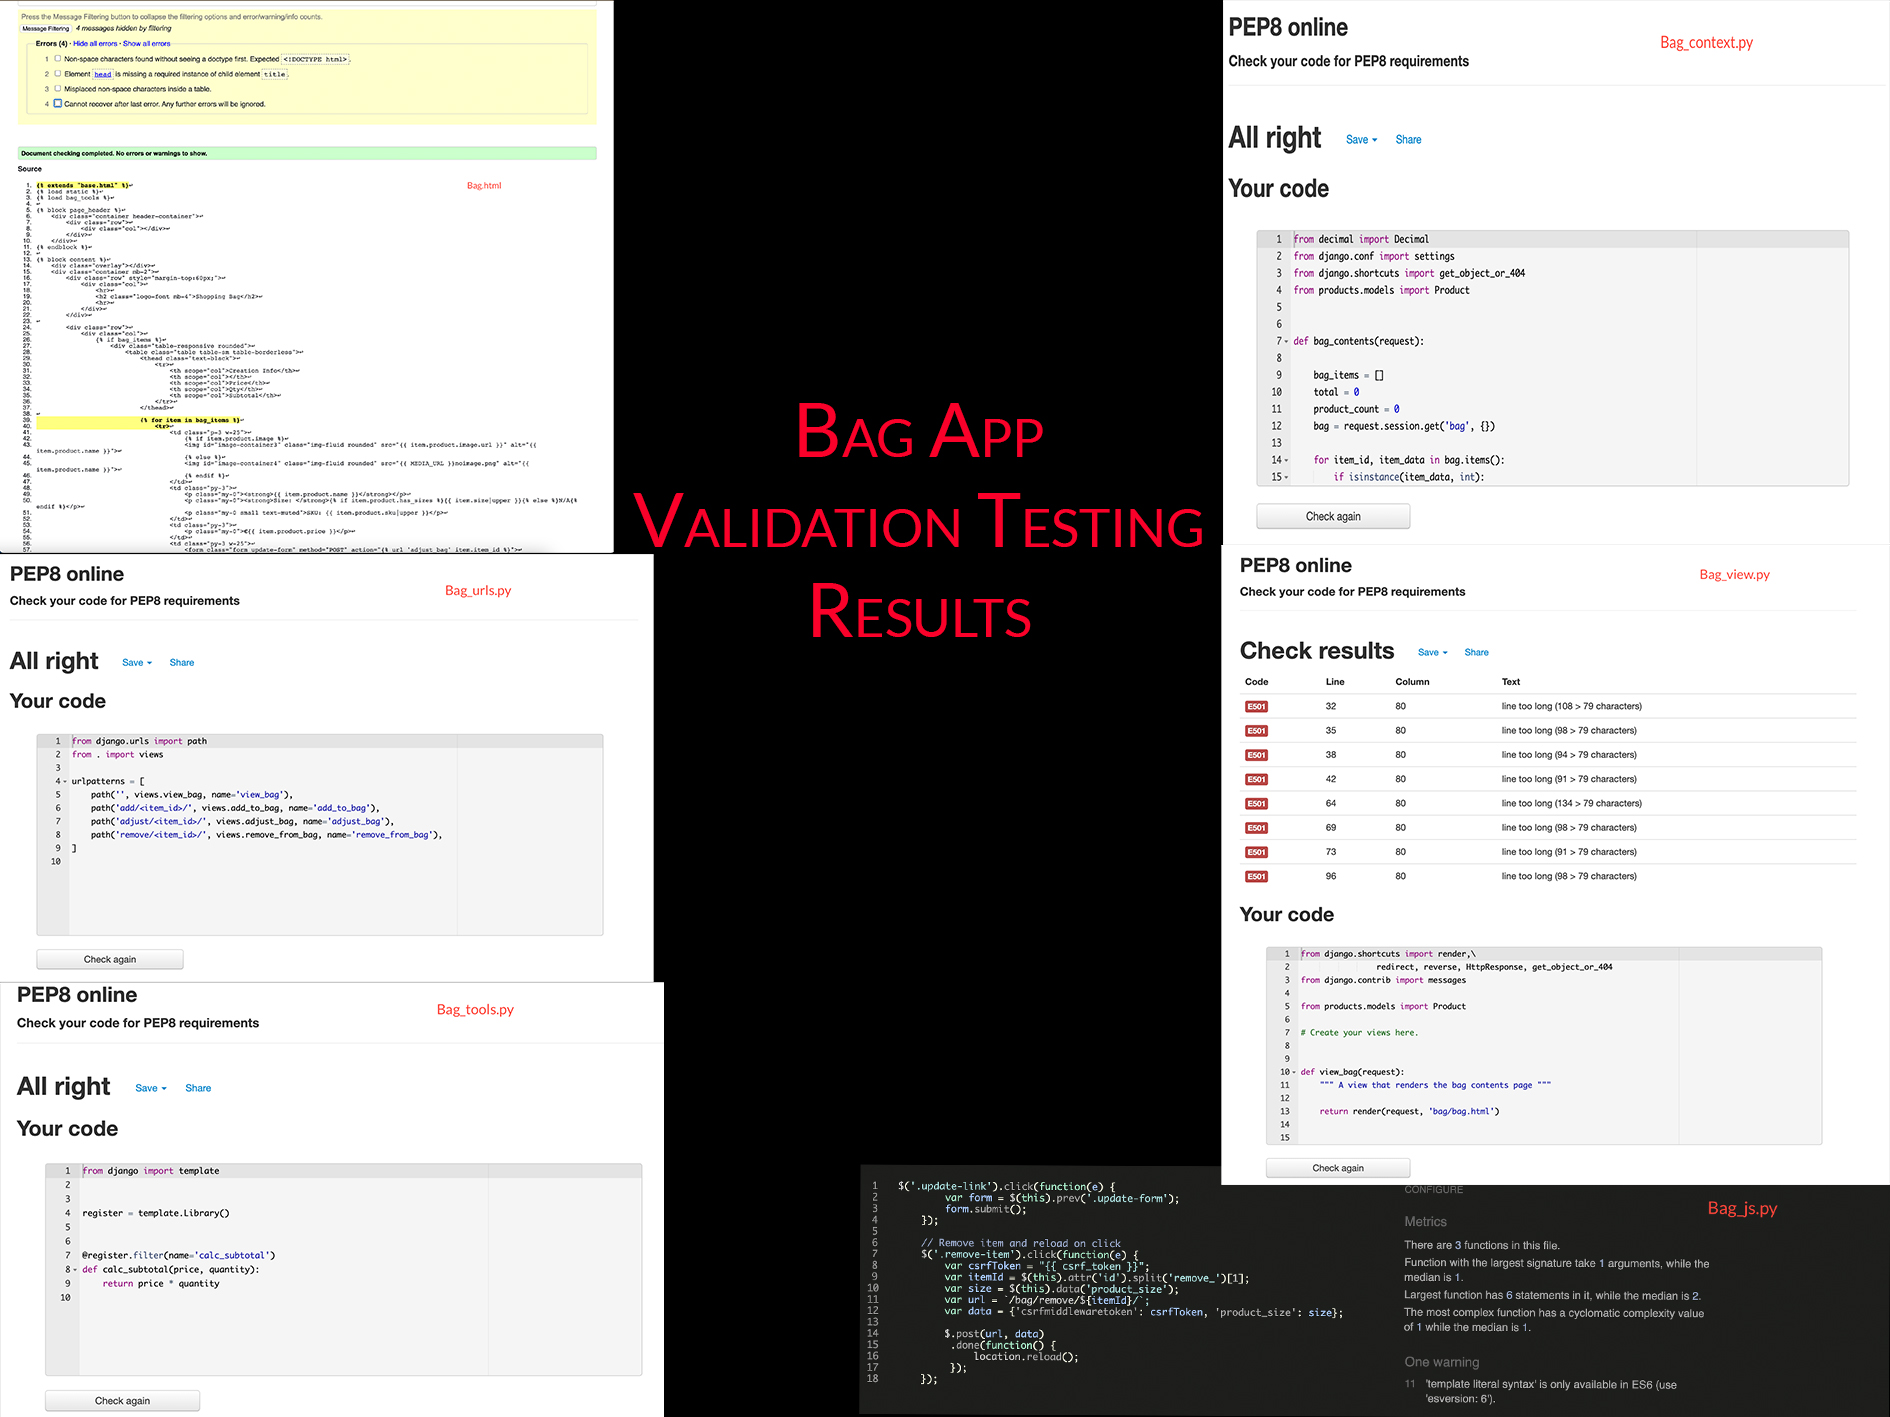
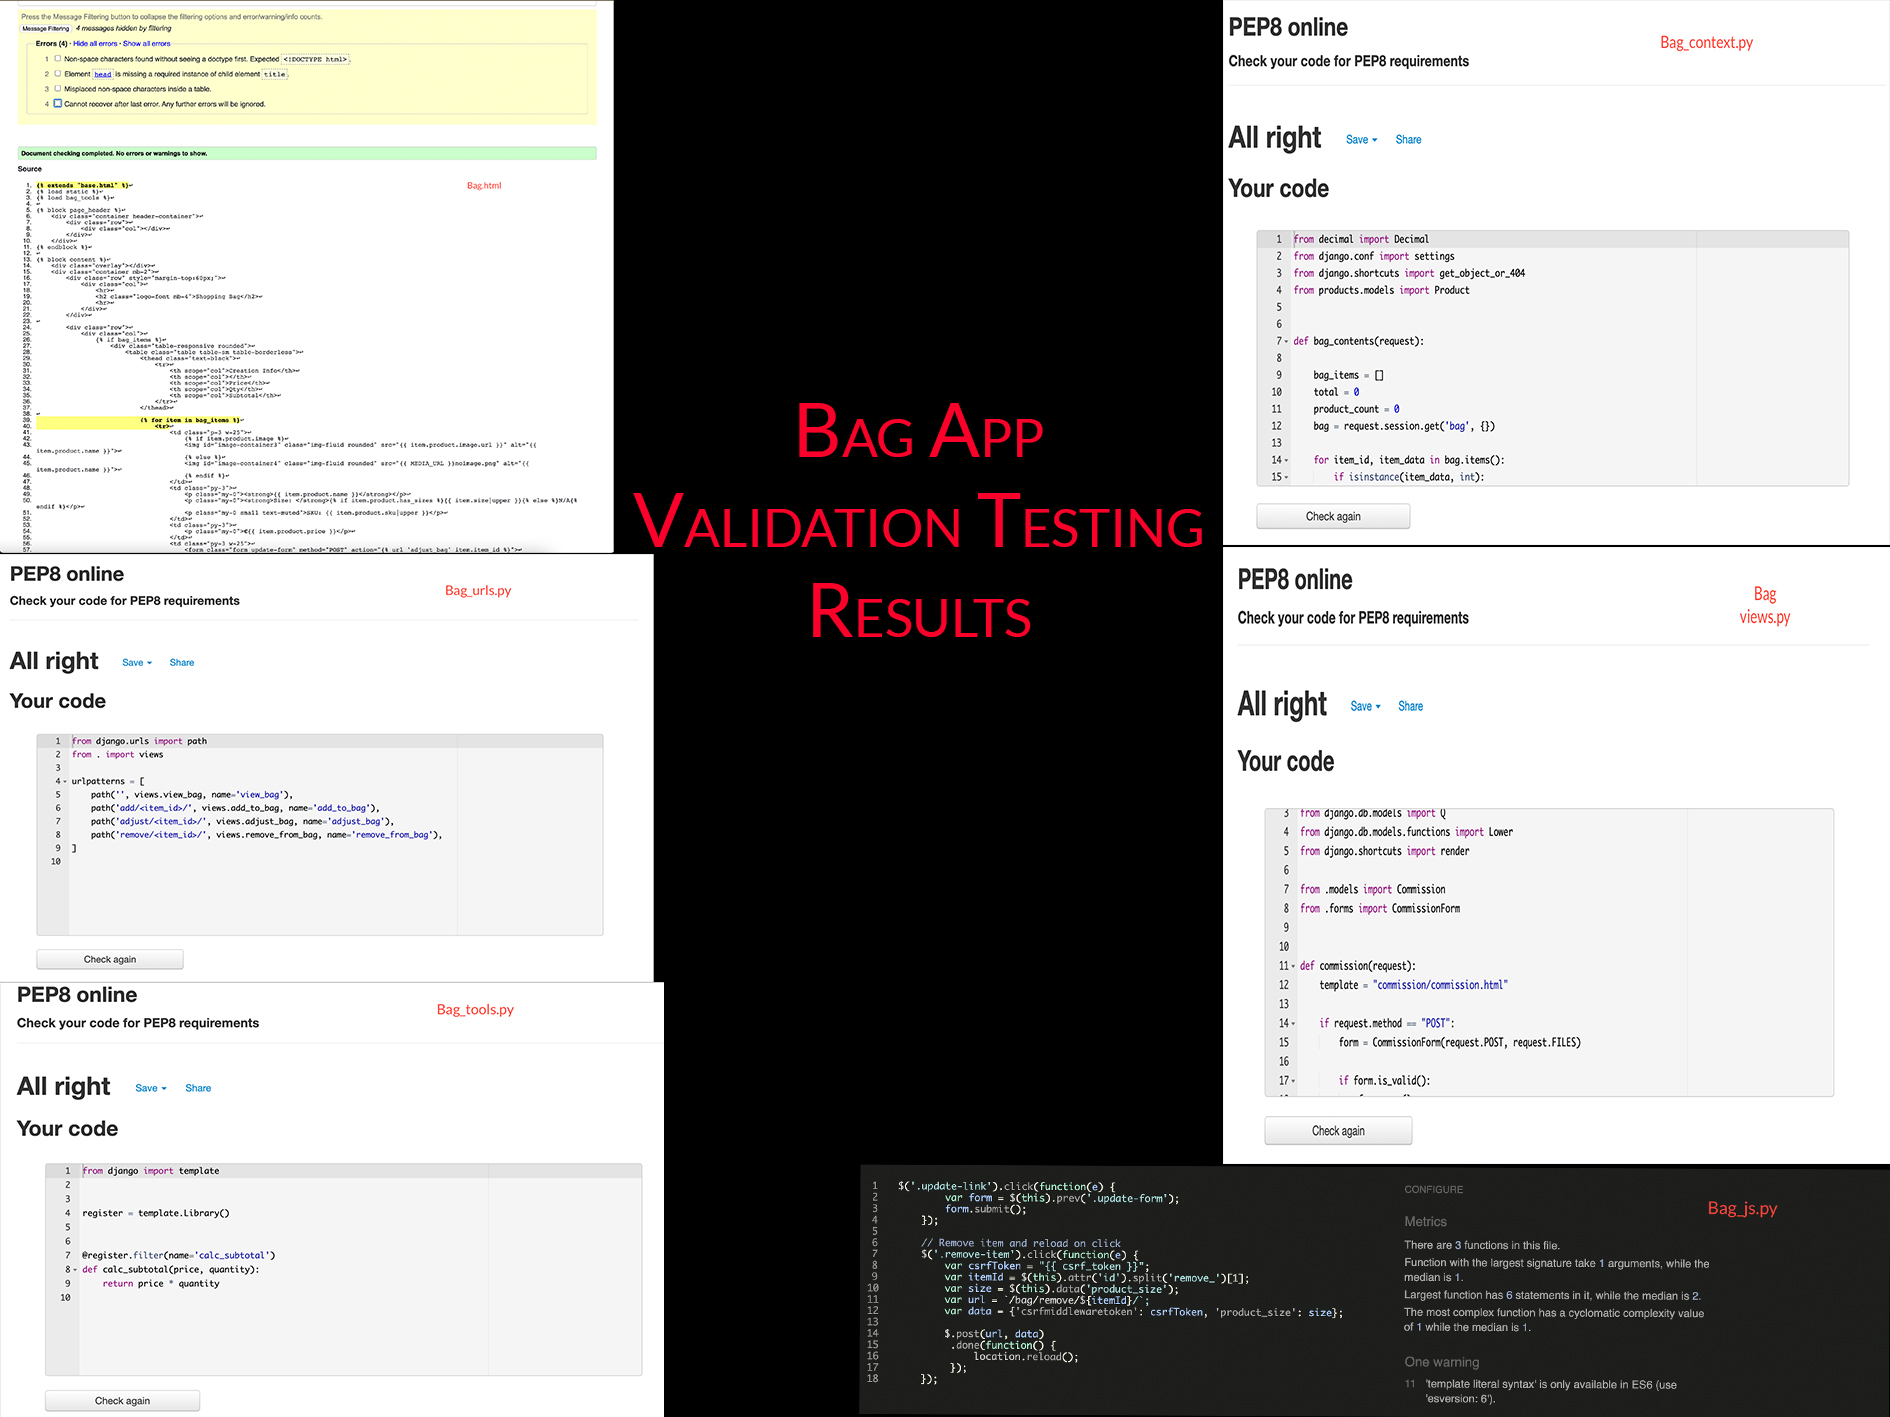
validation testing

Changed region(s): [[0.6243, 0.3726, 1.0, 0.8384], [0.9053, 0.4037, 0.9365, 0.4347]]

diff --git a/commission/templates/commission/custom_widget_templates/custom_clearable_file_input.html b/commission/templates/commission/custom_widget_templates/custom_clearable_file_input.html
@@ -1,7 +1,7 @@
 {% if widget.is_initial %}
     <p>{{ widget.initial_text }}:</p>
     <a href="{{ widget.value.url }}">
-        <img width="96" height="96" class="rounded shadow-sm" src="{{ widget.value.url }}">
+        <img width="96" height="96" class="rounded shadow-sm" alt ="" src="{{ widget.value.url }}">
     </a>
     {% if not widget.required %}
         <div class="custom-control custom-checkbox mt-2">

diff --git a/checkout/models.py b/checkout/models.py
@@ -12,8 +12,7 @@ from profiles.models import UserProfile
 
 class Order(models.Model):
     order_number = models.CharField(max_length=32, null=False, editable=False)
-    user_profile = models.ForeignKey(UserProfile, on_delete=models.SET_NULL,
-                                     null=True, blank=True, related_name='orders')
+    user_profile = models.ForeignKey(UserProfile, on_delete=models.SET_NULL, null=True, blank=True, related_name='orders')  # noqa
     full_name = models.CharField(max_length=50, null=False, blank=False)
     email = models.EmailField(max_length=254, null=False, blank=False)
     phone_number = models.CharField(max_length=20, null=False, blank=False)
@@ -24,11 +23,11 @@ class Order(models.Model):
     street_address2 = models.CharField(max_length=80, null=True, blank=True)
     county = models.CharField(max_length=80, null=True, blank=True)
     date = models.DateTimeField(auto_now_add=True)
-    delivery_cost = models.DecimalField(max_digits=6, decimal_places=2, null=False, default=0)
-    order_total = models.DecimalField(max_digits=10, decimal_places=2, null=False, default=0)
-    grand_total = models.DecimalField(max_digits=10, decimal_places=2, null=False, default=0)
+    delivery_cost = models.DecimalField(max_digits=6, decimal_places=2, null=False, default=0)  # noqa
+    order_total = models.DecimalField(max_digits=10, decimal_places=2, null=False, default=0)  # noqa
+    grand_total = models.DecimalField(max_digits=10, decimal_places=2, null=False, default=0)  # noqa
     original_bag = models.TextField(null=False, blank=False, default='')
-    stripe_pid = models.CharField(max_length=254, null=False, blank=False, default='')
+    stripe_pid = models.CharField(max_length=254, null=False, blank=False, default='')  # noqa
 
     def _generate_order_number(self):
         """
@@ -41,9 +40,9 @@ class Order(models.Model):
         Update grand total each time a line item is added,
         accounting for delivery costs.
         """
-        self.order_total = self.lineitems.aggregate(Sum('lineitem_total'))['lineitem_total__sum'] or 0
+        self.order_total = self.lineitems.aggregate(Sum('lineitem_total'))['lineitem_total__sum'] or 0  # noqa
         if self.order_total < settings.FREE_DELIVERY_THRESHOLD:
-            self.delivery_cost = self.order_total * settings.STANDARD_DELIVERY_PERCENTAGE / 100
+            self.delivery_cost = self.order_total * settings.STANDARD_DELIVERY_PERCENTAGE / 100  # noqa
         else:
             self.delivery_cost = 0
         self.grand_total = self.order_total + self.delivery_cost
@@ -63,11 +62,11 @@ class Order(models.Model):
 
 
 class OrderLineItem(models.Model):
-    order = models.ForeignKey(Order, null=False, blank=False, on_delete=models.CASCADE, related_name='lineitems')
-    product = models.ForeignKey(Product, null=False, blank=False, on_delete=models.CASCADE)
-    product_size = models.CharField(max_length=2, null=True, blank=True)  # XS, S, M, L, XL
+    order = models.ForeignKey(Order, null=False, blank=False, on_delete=models.CASCADE, related_name='lineitems')  # noqa
+    product = models.ForeignKey(Product, null=False, blank=False, on_delete=models.CASCADE)  # noqa
+    product_size = models.CharField(max_length=2, null=True, blank=True)  # XS, S, M, L, XL  # noqa
     quantity = models.IntegerField(null=False, blank=False, default=0)
-    lineitem_total = models.DecimalField(max_digits=6, decimal_places=2, null=False, blank=False, editable=False)
+    lineitem_total = models.DecimalField(max_digits=6, decimal_places=2, null=False, blank=False, editable=False)  # noqa
 
     def save(self, *args, **kwargs):
         """

diff --git a/checkout/views.py b/checkout/views.py
@@ -1,4 +1,5 @@
-from django.shortcuts import render, redirect, reverse, get_object_or_404, HttpResponse
+from django.shortcuts import render, redirect, reverse,\
+                      get_object_or_404, HttpResponse
 from django.views.decorators.http import require_POST
 from django.contrib import messages
 from django.conf import settings
@@ -69,7 +70,8 @@ def checkout(request):
                         )
                         order_line_item.save()
                     else:
-                        for size, quantity in item_data['items_by_size'].items():
+                        for size, quantity in\
+                                  item_data['items_by_size'].items():
                             order_line_item = OrderLineItem(
                                 order=order,
                                 product=product,
@@ -79,7 +81,8 @@ def checkout(request):
                             order_line_item.save()
                 except Product.DoesNotExist:
                     messages.error(request, (
-                        "One of the products in your bag wasn't found in our database. "
+                        "One of the products in your bag\
+                             wasn't found in our database. "
                         "Please call us for assistance!")
                     )
                     order.delete()
@@ -87,14 +90,15 @@ def checkout(request):
 
             # Save the info to the user's profile if all is well
             request.session['save_info'] = 'save-info' in request.POST
-            return redirect(reverse('checkout_success', args=[order.order_number]))
+            return redirect(reverse('checkout_success', args=[order.order_number]))  # noqa
         else:
             messages.error(request, 'There was an error with your form. \
                 Please double check your information.')
     else:
         bag = request.session.get('bag', {})
         if not bag:
-            messages.error(request, "There's nothing in your bag at the moment")
+            messages.error(request, "There's nothing \
+                         in your bag at the moment")
             return redirect(reverse('products'))
 
         current_bag = bag_contents(request)
@@ -106,7 +110,8 @@ def checkout(request):
             currency=settings.STRIPE_CURRENCY,
         )
 
-        # Attempt to prefill the form with any info the user maintains in their profile
+        # Attempt to prefill the form with any info \
+        # the user maintains in their profile
         if request.user.is_authenticated:
             try:
                 profile = UserProfile.objects.get(user=request.user)

diff --git a/checkout/webhook_handler.py b/checkout/webhook_handler.py
@@ -70,8 +70,8 @@ class StripeWH_Handler:
                 profile.default_country = shipping_details.address.country
                 profile.default_postcode = shipping_details.address.postal_code
                 profile.default_town_or_city = shipping_details.address.city
-                profile.default_street_address1 = shipping_details.address.line1
-                profile.default_street_address2 = shipping_details.address.line2
+                profile.default_street_address1 = shipping_details.address.line1  # noqa
+                profile.default_street_address2 = shipping_details.address.line2  # noqa
                 profile.default_county = shipping_details.address.state
                 profile.save()
 
@@ -101,7 +101,8 @@ class StripeWH_Handler:
         if order_exists:
             self._send_confirmation_email(order)
             return HttpResponse(
-                content=f'Webhook received: {event["type"]} | SUCCESS: Verified order already in database',
+                content=f'Webhook received: {event["type"]} |\
+                          SUCCESS: Verified order already in database',
                 status=200)
         else:
             order = None
@@ -130,7 +131,7 @@ class StripeWH_Handler:
                         )
                         order_line_item.save()
                     else:
-                        for size, quantity in item_data['items_by_size'].items():
+                        for size, quantity in item_data['items_by_size'].items():  # noqa
                             order_line_item = OrderLineItem(
                                 order=order,
                                 product=product,
@@ -146,7 +147,8 @@ class StripeWH_Handler:
                     status=500)
         self._send_confirmation_email(order)
         return HttpResponse(
-            content=f'Webhook received: {event["type"]} | SUCCESS: Created order in webhook',
+            content=f'Webhook received: {event["type"]} |\
+                 SUCCESS: Created order in webhook',
             status=200)
 
     def handle_payment_intent_payment_failed(self, event):

diff --git a/commission/forms.py b/commission/forms.py
@@ -4,12 +4,12 @@ from .models import Commission
 
 
 class CommissionForm(forms.ModelForm):
-    first_name = forms.CharField(label="", widget=forms.TextInput(attrs={'placeholder': 'First name'}))
-    last_name = forms.CharField(label="", widget=forms.TextInput(attrs={'placeholder': 'Last name'}))
-    email = forms.CharField(label="", widget=forms.TextInput(attrs={'placeholder': 'Email address'}))
-    message = forms.CharField(label="", widget=forms.Textarea(attrs={'placeholder': 'Please give a description of what you would like created and then upload your image below'}))
+    first_name = forms.CharField(label="", widget=forms.TextInput(attrs={'placeholder': 'First name'}))  # noqa
+    last_name = forms.CharField(label="", widget=forms.TextInput(attrs={'placeholder': 'Last name'}))  # noqa
+    email = forms.CharField(label="", widget=forms.TextInput(attrs={'placeholder': 'Email address'}))  # noqa
+    message = forms.CharField(label="", widget=forms.Textarea(attrs={'placeholder': 'Please give a description of what you would like created and then upload your image below'}))  # noqa
 
-    image = forms.ImageField(label='Image', required=False, widget=CustomClearableFileInput)
+    image = forms.ImageField(label='Image', required=False, widget=CustomClearableFileInput)  # noqa
 # added 'form-control' for responsiveness
 
     def __init__(self, *args, **kwargs):

diff --git a/commission/views.py b/commission/views.py
@@ -7,6 +7,7 @@ from django.shortcuts import render
 from .models import Commission
 from .forms import CommissionForm
 
+
 def commission(request):
     template = "commission/commission.html"
 
@@ -23,7 +24,8 @@ def commission(request):
     context = {
         'form': form,
     }
-    return render(request, template, context)   
+    return render(request, template, context)
+
 
 # Request a Creation
 @login_required
@@ -33,13 +35,15 @@ def add_commission(request):
     form = CommissionForm()(request.POST, request.FILES)
 
     if request.method == 'POST':
-        
+
         if form.is_valid():
-            #commission = form.save()
+            # commission = form.save()
             messages.success(request, 'Successfully requested creation!')
-            #return redirect(reverse('commission_detail', args=[commission.first_name]))
+            # return redirect(reverse('commission_detail',\
+            # args=[commission.first_name]))
         else:
-            messages.error(request, 'Failed to request product. Please ensure the form is valid.')
+            messages.error(request, 'Failed to request product.\
+                             Please ensure the form is valid.')
     else:
         form = CommissionForm()
 

diff --git a/bulitt_creations/settings.py b/bulitt_creations/settings.py
@@ -135,16 +135,16 @@ else:
 
 AUTH_PASSWORD_VALIDATORS = [
     {
-        'NAME': 'django.contrib.auth.password_validation.UserAttributeSimilarityValidator',
+        'NAME': 'django.contrib.auth.password_validation.UserAttributeSimilarityValidator',  # noqa
     },
     {
-        'NAME': 'django.contrib.auth.password_validation.MinimumLengthValidator',
+        'NAME': 'django.contrib.auth.password_validation.MinimumLengthValidator',  # noqa
     },
     {
-        'NAME': 'django.contrib.auth.password_validation.CommonPasswordValidator',
+        'NAME': 'django.contrib.auth.password_validation.CommonPasswordValidator',  # noqa
     },
     {
-        'NAME': 'django.contrib.auth.password_validation.NumericPasswordValidator',
+        'NAME': 'django.contrib.auth.password_validation.NumericPasswordValidator',  # noqa
     },
 ]
 

diff --git a/bag/views.py b/bag/views.py
@@ -30,7 +30,9 @@ def add_to_bag(request, item_id):
                 messages.success(request, f'Updated size {size.upper()} {product.name} quantity to {bag[item_id]["items_by_size"][size]}')
             else:
                 bag[item_id]['items_by_size'][size] = quantity
-                messages.success(request, f'Added size {size.upper()} {product.name} to your bag')
+                messages.success(
+                    request, 
+                    f'Added size {size.upper()} {product.name} to your bag')
         else:
             bag[item_id] = {'items_by_size': {size: quantity}}
             messages.success(request, f'Added size {size.upper()} {product.name} to your bag')

diff --git a/checkout/webhooks.py b/checkout/webhooks.py
@@ -38,7 +38,7 @@ def webhook(request):
     # Map webhook events to relevant handler functions
     event_map = {
         'payment_intent.succeeded': handler.handle_payment_intent_succeeded,
-        'payment_intent.payment_failed': handler.handle_payment_intent_payment_failed,
+        'payment_intent.payment_failed': handler.handle_payment_intent_payment_failed,  # noqa
     }
 
     # Get the webhook type from Stripe

diff --git a/commission/widgets.py b/commission/widgets.py
@@ -6,4 +6,4 @@ class CustomClearableFileInput(ClearableFileInput):
     clear_checkbox_label = _('Remove')
     initial_text = _('Current Image')
     input_text = _('')
-    template_name = 'commission/custom_widget_templates/custom_clearable_file_input.html'
+    template_name = 'commission/custom_widget_templates/custom_clearable_file_input.html'  # noqa

diff --git a/commission/models.py b/commission/models.py
@@ -10,4 +10,3 @@ class Commission(models.Model):
 
     def __str__(self):
         return self.first_name
-        

diff --git a/TEST.md b/TEST.md
@@ -18,6 +18,10 @@
 |![Region Error](/media/region_error.png)|![Region Resolve](/media/region_resolve.png) |
 | Not deploying to local server | Added in the Coma that was missing from settings.py for SECRET_KEY |
 |![Secret Key Error](/media/secret_key_error.png) | ![Secret Key Resolve](/media/secret_key_resolve.png)
+| Webhook not receiving for local server | Created a new endpoint and deleted older one
+|![Local webhook Fail](/media/local_fail.png) | ![Local Webhook Resolve](/media/local_success.png)
+| Webhook not receiving for heroku server | Created a new endpoint and deleted older one and re-configured the Config Vars
+|![Heroku webhook Fail](/media/heroku_fail.png) | ![Heroku Webhook Resolve](/media/heroku_success.png)
 <br>
 
 <p><h1 align="center"><strong>PERFORMANCE</strong> TESTING</h1></p>
@@ -39,7 +43,7 @@ When testing for html it contained a lot of python code in it and as these resul
 
 <br>
 
-I did not know how to resolve these errors and in my research to find out how, they are classed as a style error and does not affect the code performance. I chose to ignore them and I dealt with any other error that arose, from trailing white lines to indents and so on.
+ In order to resolve these errors and in my research to find out how, I found they are classed as a style error and does not affect the code performance. I chose to use the comment <strong>#noqa</strong> only in places where a line break \ didn't work and began to mess up the code  and I dealt with any other errors that arose, from trailing white lines to indents and so on.
 <br><br>
 
 ## <strong>E6</strong> Syntax
